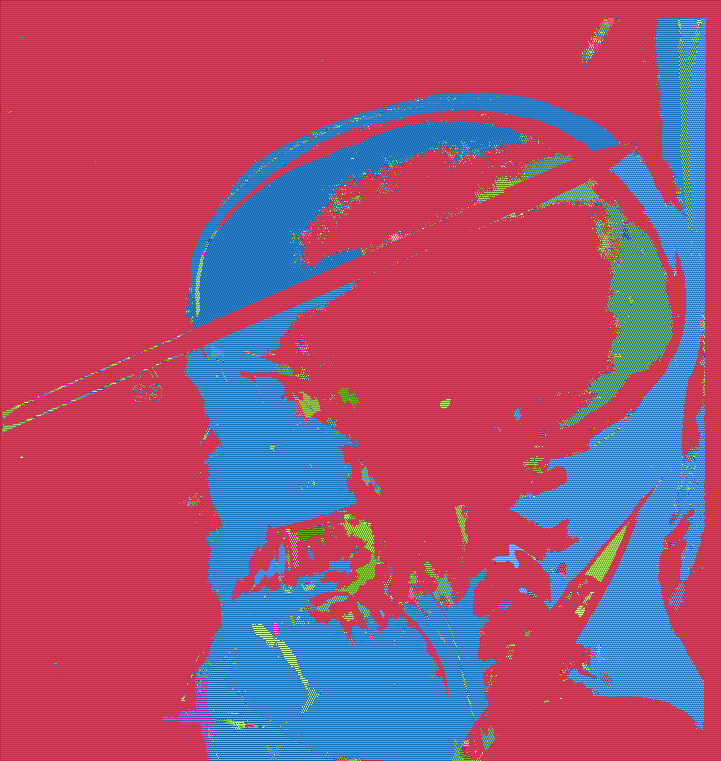
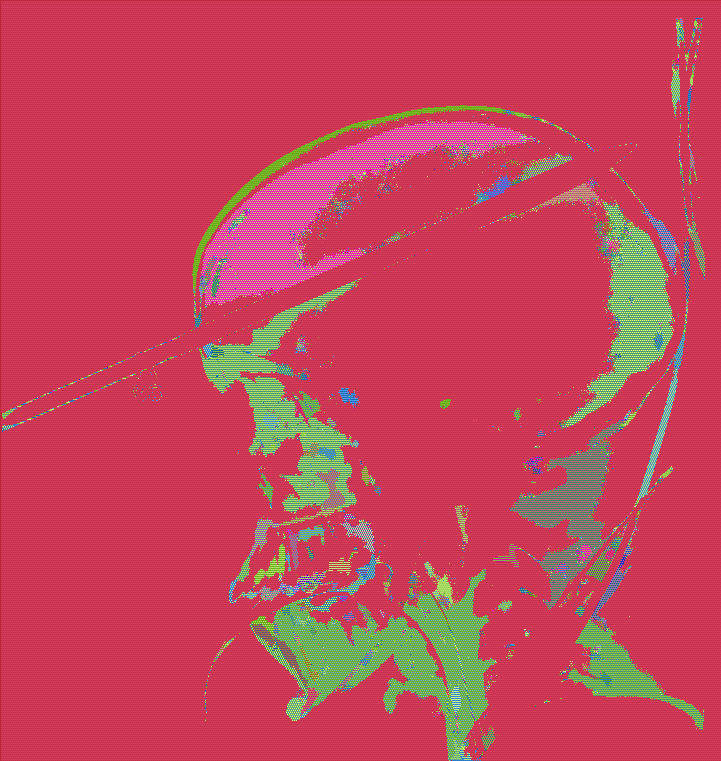
64

diff --git a/1course.c b/1course.c
@@ -69,7 +69,7 @@ int is_close(int r1, int g1, int b1, int a1, int r2, int g2, int b2, int a2) {
 int is_black(int r, int g, int b) {
   // Here is the place for experiments and improvments
       int gray=(r+g+b)/3;
-      if ( gray < 5 ) return 1;
+      if ( gray < 64 ) return 1;
       else return 0;
 }
 
@@ -103,6 +103,7 @@ void dfs(int i,int j,int w,int h,unsigned char* ourIm, int* components,int col_n
 
 int main() {
 
+   // char * filename = "C_ver1.png";
     char * filename = "Scull.png";
     int w, h, i, j, c, k=0, adj_num=0;
     int r, g, b, a, n=4;
@@ -157,6 +158,7 @@ int main() {
         k++;
     }
 
+   // char * new_image = "C_ver1-modified.png";
     char * new_image = "Scull-modified.png";
     writePng(new_image, data, w, h);
 
